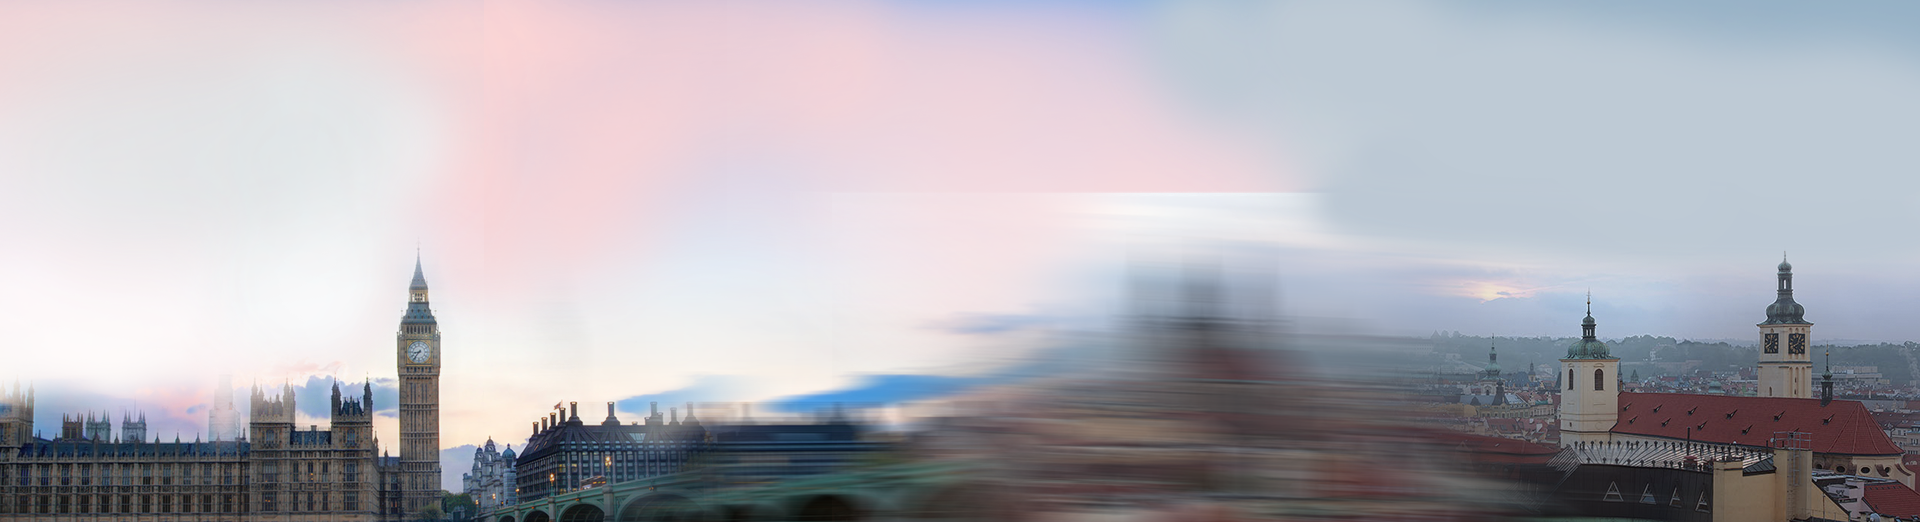
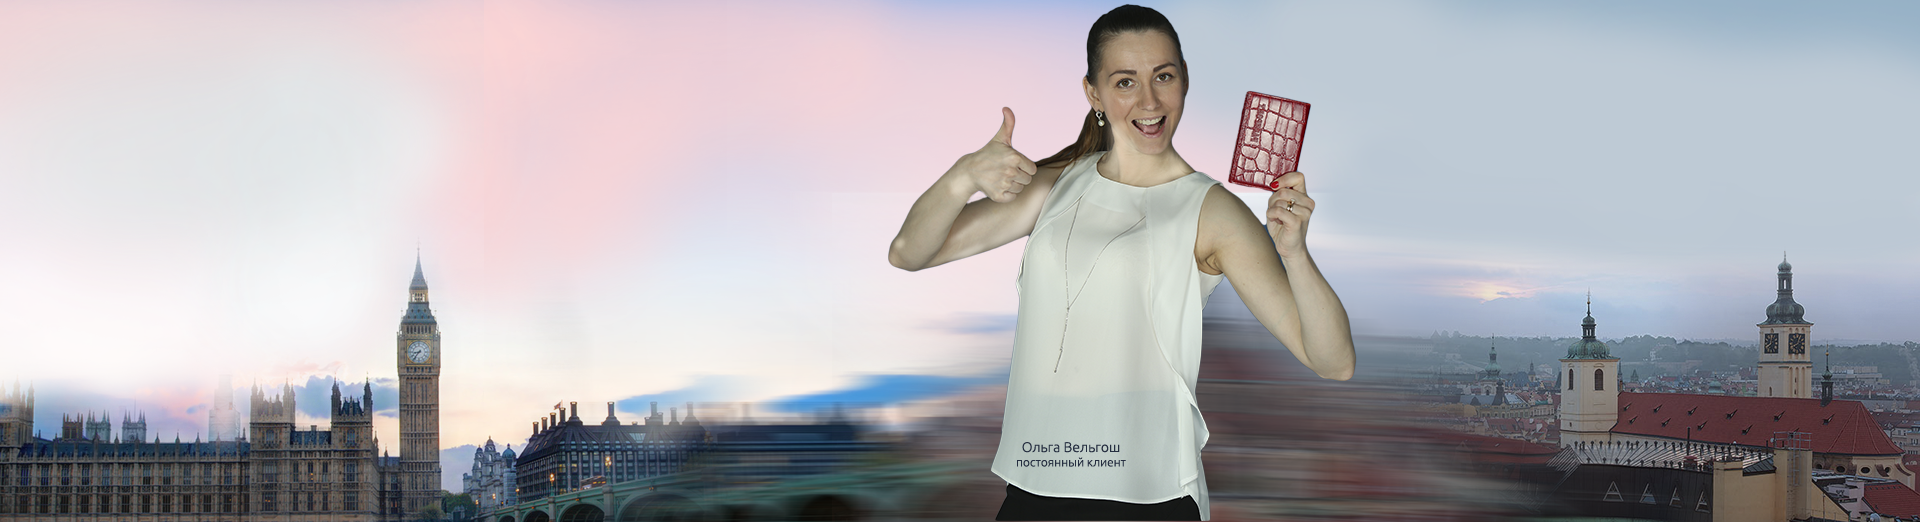
fix slider bg add text "our servises" add text "thanks" fix text "thanks"
fix slider bg
add text "our servises"
add text "thanks"
fix text "thanks"

Changed region(s): [[0.4375, 0.0, 0.7188, 1.0]]

diff --git a/css/main.css b/css/main.css
@@ -122,7 +122,6 @@ body{
     background:#aa240d;
     color:#fff;
 }
-
 .blue_btn{
     display: none;
     border-color: #252E40;
@@ -130,12 +129,10 @@ body{
     width: 220px;
     margin: 0 auto 30px;
 }
-
 .blue_btn:hover{
     background:#252E40;
     color:#fff;
 }
-
 .red_btn:before{
     content:'';
     position:absolute;
@@ -154,7 +151,7 @@ body{
     height:50px;
 }
 .blc01{
-    background:url("../img/bkr-image-ua.jpg") no-repeat center top;
+    background:url("../img/bg_lviv.png") no-repeat center top;
     padding:150px 0 0;
     margin-bottom:30px;
 }
@@ -220,12 +217,10 @@ input:-ms-input-placeholder{
 .wide_parall .thin{
     background:#fff;
 }
-
 .wide_parall {
 	background-repeat: no-repeat;
 	background-position: top center !important;
 }
-
 .wide_bot{
     margin-bottom:100px;
 }
@@ -250,14 +245,12 @@ input:-ms-input-placeholder{
     border-radius:0 5px 5px 0;
     border-right:2px solid #dfe2e9;
 }
-
 #inst_link a{
     display: flex;
     justify-content: center;
     font-style: italic;
     align-items: center;
 }
-
 #inst_link a p{
     font-size: 35px;
     font-weight: bold;
@@ -268,28 +261,23 @@ input:-ms-input-placeholder{
     width: 80px;
     height: auto;
 }
-
 .v_cost{
     clear: both;
     width: 75%;
     margin: 80px auto;
     text-align: center;
 }
-
 .v_cost h3{
     margin-bottom: 50px;
 }
-
 .v_cost h4{
     margin: 50px 0 10px;
     text-align: left;
     color: #c12800;
 }
-
 .v_cost ul{
     text-align: left;
 }
-
 .v_cost ul li{
     list-style:none;
     line-height: 25px; 
@@ -298,20 +286,14 @@ input:-ms-input-placeholder{
     font-size: 12px;
     font-style: italic;
 }
-
 .v_cost .items li:before{
    content:"";
     background:url(../img/chackmark.png);
     float:left;
     width:16px;
     height:16px;
-    margin-right:10px; 
+    margin-right:10px;
 }
-
-
-
-
-
 .wide_top{
     height:60px;
 }
@@ -327,6 +309,11 @@ input:-ms-input-placeholder{
 .blc_02{
     text-align:center;
     padding:80px 0 0;
+}
+.blc_02 .container h3{
+    font-style: italic;
+    margin-top: -30px;
+    margin-bottom: 30px;
 }
 .blc_02 h5{
     font-size:18px;
@@ -588,6 +575,10 @@ input:-ms-input-placeholder{
 }
 .blc_10{
     padding:90px 0 30px;
+}
+.blc_10 .container h3{
+    text-align: center;
+    font-size: 48px;
 }
 .inl01{
     vertical-align:top;

diff --git a/index.php b/index.php
@@ -555,6 +555,7 @@ var height = Math.max( body.scrollHeight, body.offsetHeight,
             <div class="blc_02">
                 <div class="container">
                     <h2>Наші послуги</h2>
+                    <h3>Ми допомогли отримати візи більше 1000 львів'ян</h3>
                     <div class="f_icos">
                         <div class="pl_one pl_first">
                             <div class="img_wrap">
@@ -1012,7 +1013,7 @@ var height = Math.max( body.scrollHeight, body.offsetHeight,
 
                         <div class="inl01">
                             <h3>100</h3>
-                            <p>спортсменів потрапили 
+                            <p>спортсменів виїхали 
                                на змагання</p>
                         </div>
                         <div class="inl01 mar_mid">
@@ -1022,10 +1023,11 @@ var height = Math.max( body.scrollHeight, body.offsetHeight,
                         </div>
                         <div class="inl01">
                             <h3>50</h3>
-                            <p>самотніх сердець потрапили на побачення 
-                               і романтичні зустрічі</p>
+                            <p>самотніх сердець зустрілись на побаченнях 
+                               і романтичних зустрічах</p>
                         </div>
                     </div>
+                    <h3>Приймай вірне рішення</h3>
                 </div>
             </div>
         </div>
